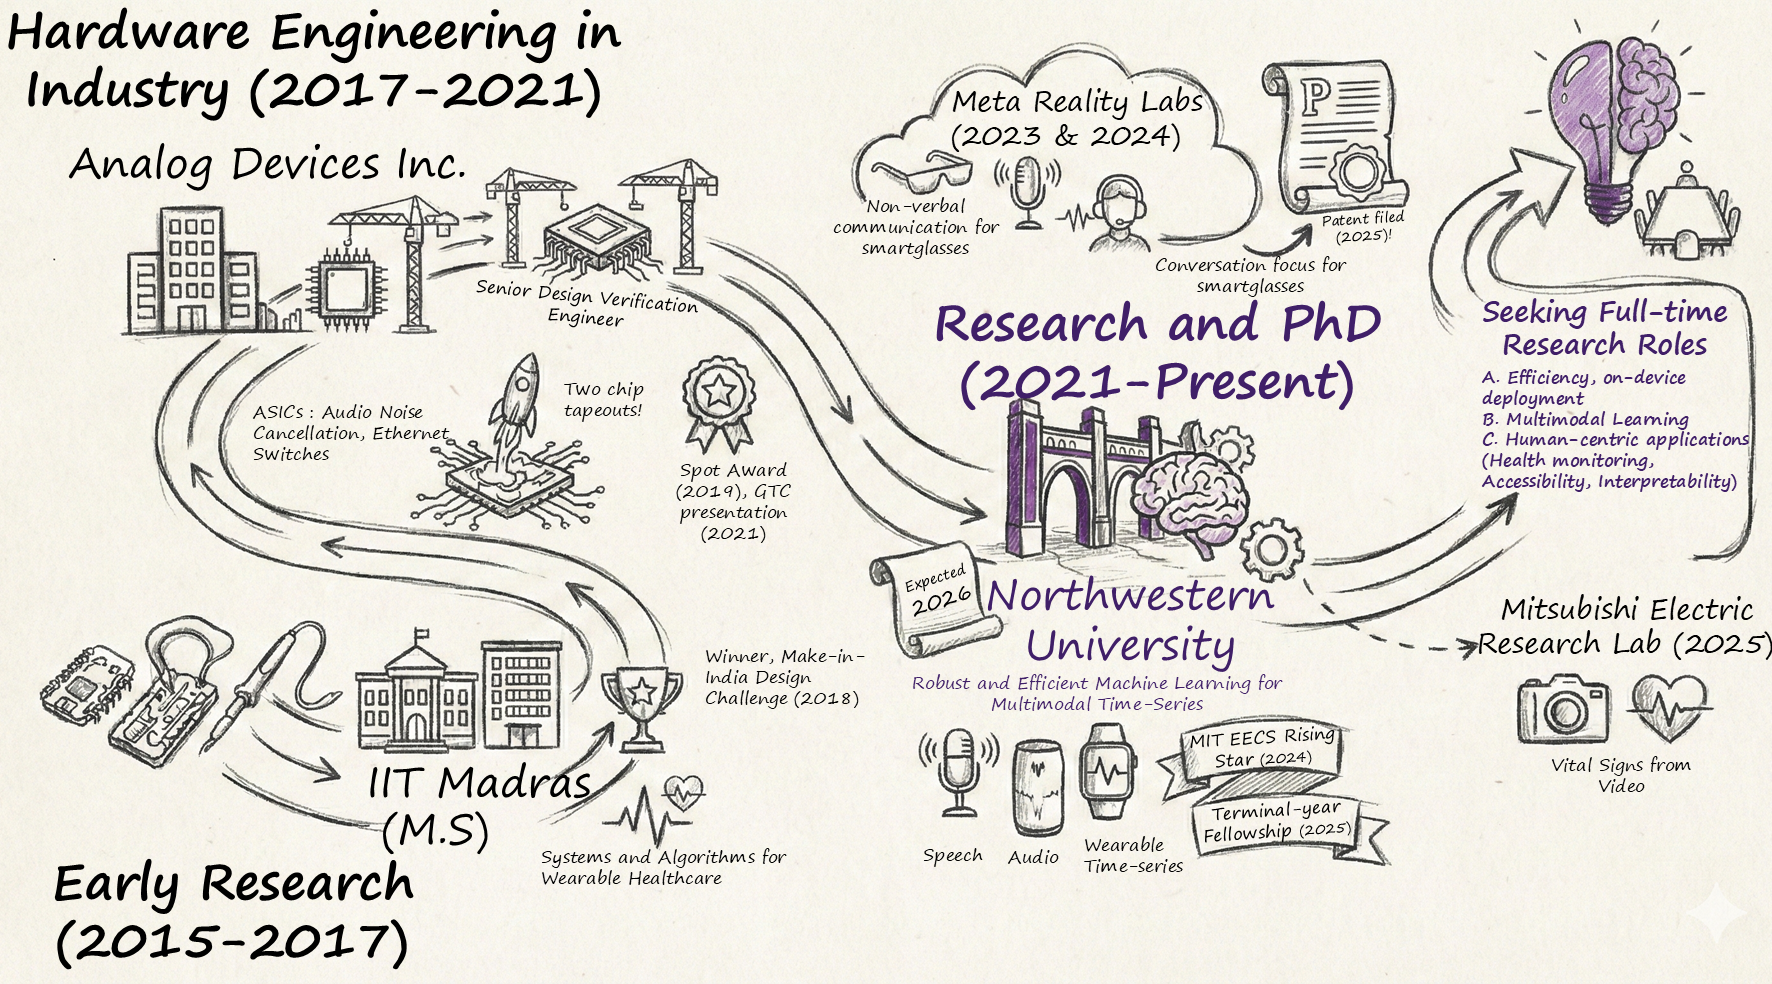
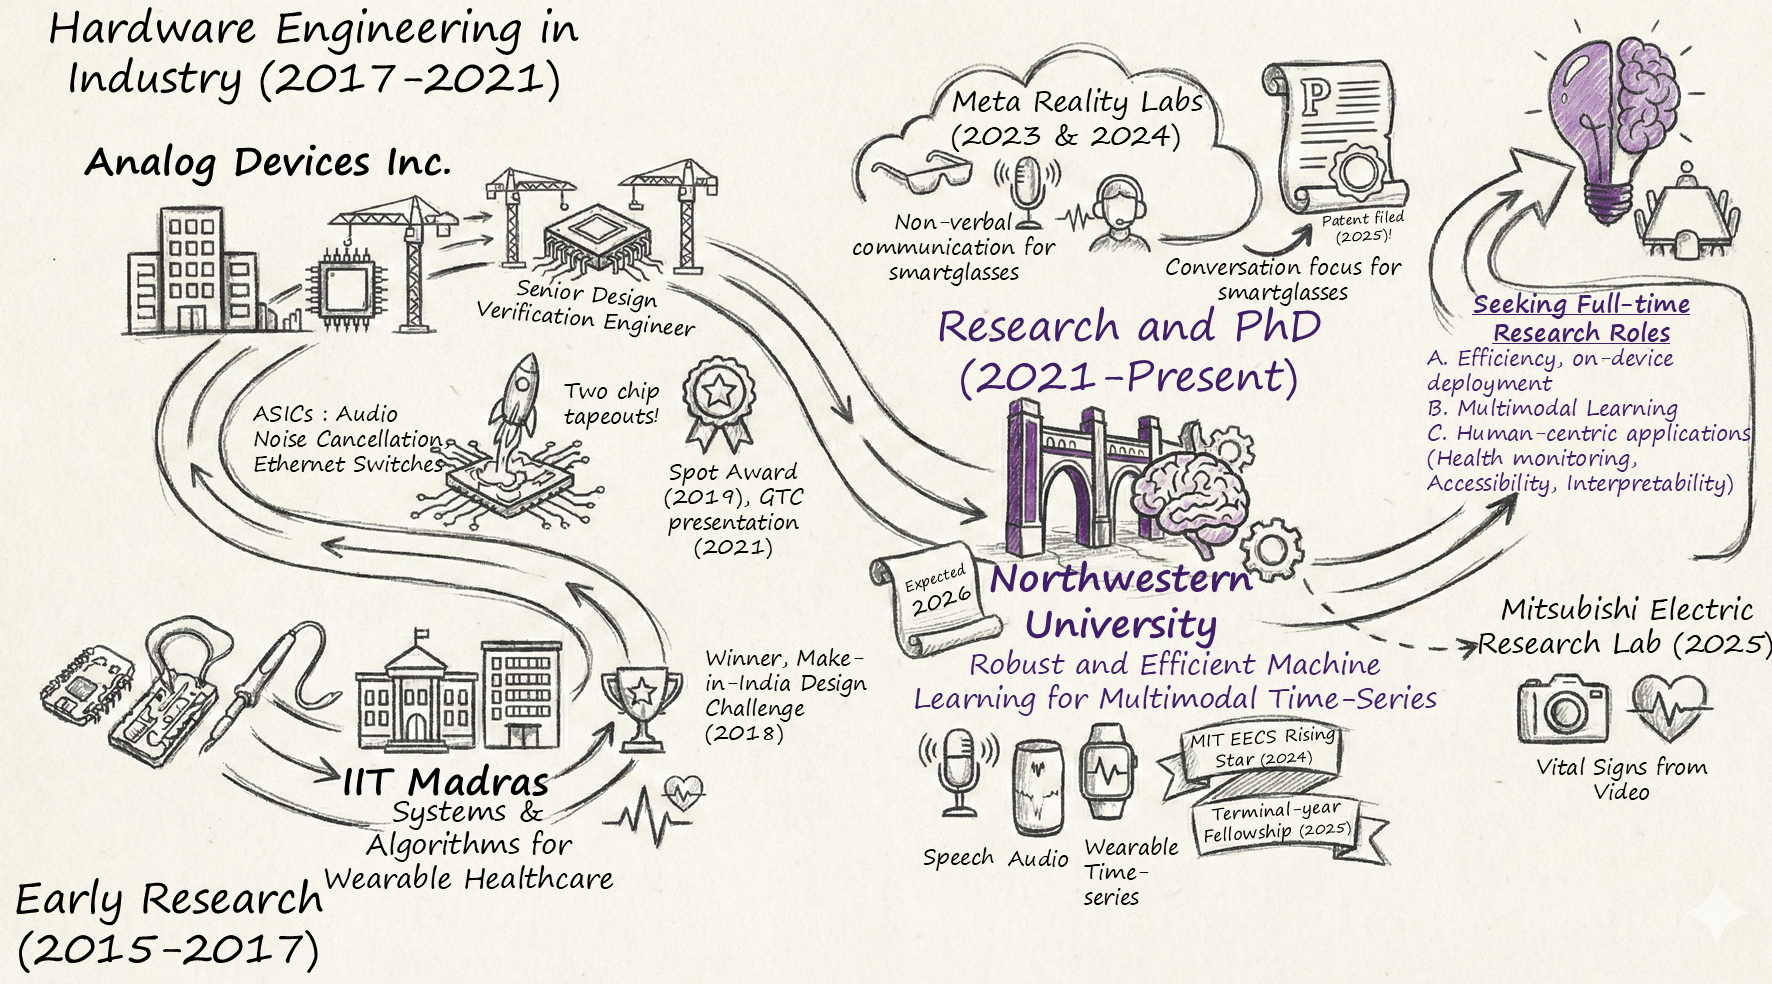
updated figure

diff --git a/_pages/about.md b/_pages/about.md
@@ -23,10 +23,10 @@ From 2017 to 2021, I was a Design Engineer at Analog Devices Inc., where I worke
   <a href="/files/Payal_CV.pdf" target="_blank" class="btn-cv">review my CV</a> or <a href="mailto:payalmohapatra2026@u.northwestern.edu">contact me</a> to discuss opportunities.</p>
 </div>
 
-<!-- ## Career Summary -->
+## My Journey
 
 <div class="figure-container">
-  <img id="overviewImage" src="/files/overview_2.png" alt="Career Overview: From Hardware Engineering to PhD Research" class="overview-figure" onclick="openModal()">
+  <img id="overviewImage" src="/images/overview_2.png" alt="Career Overview: From Hardware Engineering to PhD Research" class="overview-figure" onclick="openModal()">
   <p class="figure-caption">Click to enlarge</p>
 </div>
 
@@ -41,7 +41,7 @@ function openModal() {
   const modal = document.getElementById("imageModal");
   const modalImg = document.getElementById("modalImage");
   const img = document.getElementById("overviewImage");
-  modal.style.display = "block";
+  modal.style.display = "flex";
   modalImg.src = img.src;
 }
 
@@ -50,13 +50,20 @@ function closeModal() {
   modal.style.display = "none";
 }
 
-// Close modal when clicking outside the image
-window.onclick = function(event) {
+// Close modal when clicking on the background (but not the image)
+document.addEventListener('click', function(event) {
   const modal = document.getElementById("imageModal");
-  if (event.target == modal) {
-    modal.style.display = "none";
+  if (modal && event.target === modal) {
+    closeModal();
   }
-}
+});
+
+// Close modal when pressing Escape key
+document.addEventListener('keydown', function(event) {
+  if (event.key === 'Escape') {
+    closeModal();
+  }
+});
 </script>
 
 <style>
@@ -91,36 +98,58 @@ window.onclick = function(event) {
   display: none;
   position: fixed;
   z-index: 1000;
-  padding-top: 50px;
   left: 0;
   top: 0;
   width: 100%;
   height: 100%;
-  background-color: rgba(0, 0, 0, 0.8);
+  background-color: rgba(0, 0, 0, 0.85);
+  align-items: center;
+  justify-content: center;
+  padding: 20px;
+}
+
+.modal.show {
+  display: flex;
 }
 
 .modal-content {
-  margin: auto;
-  display: block;
-  max-width: 90%;
+  max-width: 95%;
   max-height: 90vh;
   object-fit: contain;
+  border-radius: 4px;
+  animation: slideIn 0.3s ease-out;
+}
+
+@keyframes slideIn {
+  from {
+    opacity: 0;
+    transform: scale(0.9);
+  }
+  to {
+    opacity: 1;
+    transform: scale(1);
+  }
 }
 
 .close {
   position: absolute;
   top: 20px;
-  right: 35px;
+  right: 30px;
   color: white;
   font-size: 40px;
   font-weight: bold;
   cursor: pointer;
   z-index: 1001;
+  background: none;
+  border: none;
+  padding: 0;
+  transition: color 0.2s ease;
 }
 
 .close:hover,
 .close:focus {
-  color: #ccc;
+  color: #bbb;
+  outline: none;
 }
 </style>
 
